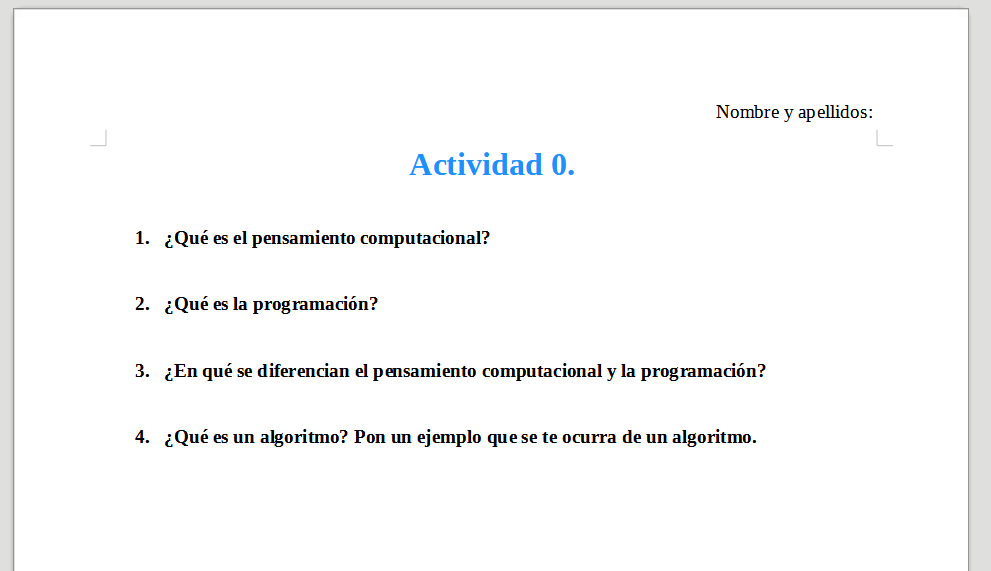
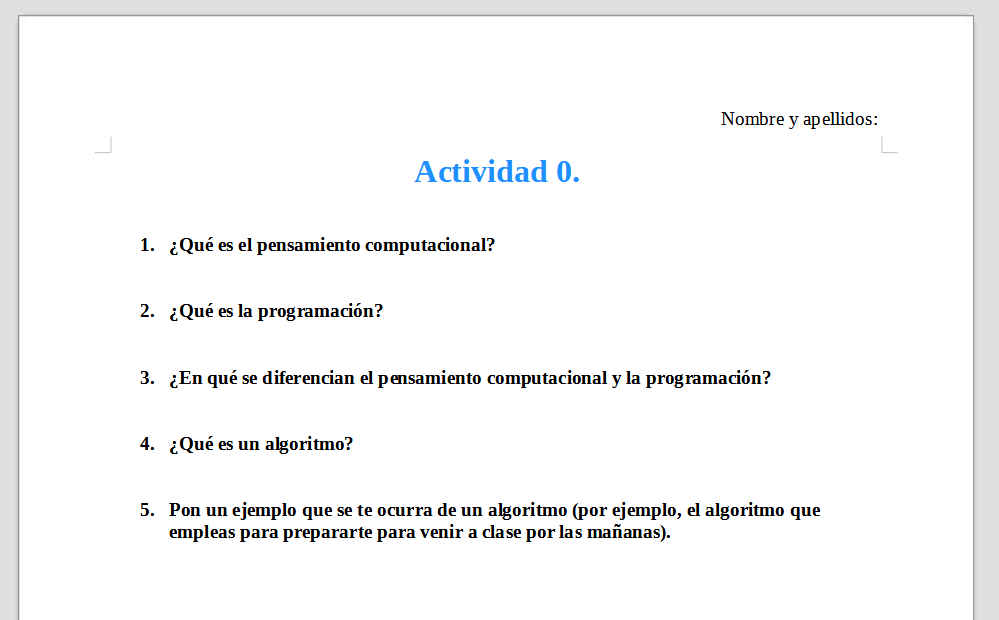
cambiadas actividades piari tema 1

diff --git a/asignaturas/piari/sa1-pensamiento-computacional/actividad-1/index.md b/asignaturas/piari/sa1-pensamiento-computacional/actividad-1/index.md
@@ -8,29 +8,32 @@ description: Actividad 1 de la SA1
 
 Un ratón de laboratorio, llamado **XC4**, ha sido entrenado por científicos. En un experimento, está situado en la entrada de un sistema de tuberías y **el objetivo** es que **llegue al queso** que se encuentra al final de la quinta tubería. Estas son las instrucciones que siempre sigue XC4:
 
-1. Bajar por el tubo hasta que aparezca un túnel nuevo.
-      
-    
-2. Cada vez que te encuentras con un túnel nuevo, debes atravesarlo.
-      
-    
-3. Vuelve a la instrucción 1.
+1. **Baja** por el tubo hasta que aparezca un túnel nuevo. 
+2. Cada vez que te encuentras con un túnel nuevo, debes **atravesarlo**.
+3. **Vuelve** a la instrucción 1.
 
 ![](act_01.png)
 
-#### **PREGUNTA**
+## Tarea 1
 
-¿En qué entrada debería ingresar el ratón para llegar al queso? Dibuja en la imagen el camino que seguirá el ratón por el laberinto hasta llegar al queso. Utiliza para ello el programa GIMP.
+1. Crea la carpeta **Actividad 1** dentro de la carpeta del **Tema 1**
+2. **Descarga la imagen** del ratón que tienes más arriba. Guárdala en la carpeta **Actividad 1**
+3. **Abre la imagen** con el programa **GIMP** (GNU Manipulation Program).
+4. ¿En qué tubo debería entrar el ratón para llegar al queso? Dibuja en la imagen el camino que seguirá el ratón por el laberinto hasta llegar al queso.
+5. **Guarda** la imagen editada en la carpeta **Actividad 1**
 
-\------------------------------------------------- ---------------------------
+> Deberás entregar en Aules **la imagen** del camino seguido por el ratón para llegar al queso.
+{: .alert-warning}
 
-##### PARA SABER MÁS
+## Tarea 2
 
-En la tarea anterior, el ratón fue entrenado por los científicos para seguir siempre un **algoritmo**, el cual, de forma simplificada, es una secuencia de instrucciones ordenadas para hacer algo. En este caso, indica cómo debe moverse el ratón en un sistema de caños interconectados.
+### Entendiendo los algoritmos
 
-Si prestamos atención al algoritmo, vemos que tiene tres **instrucciones que presentan una a continuación de otra** y se expresan por medio de un lenguaje imperativo (es decir, como órdenes).
+En la tarea anterior, el ratón fue entrenado por los científicos para seguir siempre un **algoritmo**, el cual, de forma simplificada, es una **secuencia de instrucciones ordenadas** para hacer algo. En este caso, indica cómo debe moverse el ratón en un sistema de tubos interconectados.
 
-El siguiente ejemplo es un algoritmo de más instrucciones, que puede ser utilizado para cambiar una bombilla fundida:
+Si prestamos atención al algoritmo, vemos que tiene 3 **instrucciones que presentan una a continuación de otra** y se expresan por medio de un lenguaje imperativo (es decir, como órdenes).
+
+El **siguiente ejemplo** es un algoritmo de más instrucciones, que puede ser utilizado para **cambiar una bombilla fundida**:
 
 1. Buscar una escalera y situarla en posición de alcanzar la bombilla rota.
 2. Buscar una bombilla nueva.
@@ -44,23 +47,23 @@ El siguiente ejemplo es un algoritmo de más instrucciones, que puede ser utiliz
 10. Si funciona, fin del proceso; sino,volver al paso 2.
 
   
-Como puede observarse en el algoritmo anterior, las instrucciones son claras y precisas, están ordenadas por una secuencia lógica que debe respetarse y especificado un inicio y un fin. De forma más formal, un algoritmo es una secuencia finita y ordenada de pasos para llegar a realizar una tarea determinada.
+Como puede observarse en el algoritmo anterior:
+- las instrucciones son claras y precisas
+- están ordenadas por una secuencia lógica de instrucciones que debe respetarse
+- tiene un inicio y un fin
 
-Ejemplos de algoritmos en la vida cotidiana pueden ser una receta de cocina, un manual de un artefacto que indica cómo parecerlo (por ejemplo: un mueble) o un listado de acciones a realizar en caso de que se produzca una emergencia
+> **En resumen**: Un algoritmo es una secuencia finita y ordenada de pasos para llegar a realizar una tarea determinada.
+{: .alert-info}
+
+**Ejemplos de algoritmos en la vida cotidiana** pueden ser: una receta de cocina, un manual de un artefacto que indica cómo parecerlo (por ejemplo: un mueble) o un listado de acciones a realizar en caso de que se produzca una emergencia
 en un edificio.
 
-En la escuela, los estudiantes también suelen trabajar con algoritmos:
+### Reto
 
-* en ciencia, cuando se siguen las instrucciones para realizar un experimento;
-* en matemáticas, cuando se aplica un procedimiento para resolver un ejercicio (por ejemplo, el cálculo de una media);
-* en tecnología, cuando se siguen una serie de instrucciones para ensamblar algún artefacto;
-* en arte, cuando se aplica alguna técnica de fabricación o composición (por ejemplo, la fabricación de una pieza de cerámica).
+Los científicos están buscando la manera de **entrenar de nuevo al ratón** para que, entrando por cualquier tubo, **salga siempre por el número cinco**. Haz lo siguiente:
 
-\------------------------------------------------- -----------------
+- **Escribe el algoritmo** haciendo uso del programa **LibreOffice Writer** e indica todos los pasos que debería seguir el ratón para **salir siempre por el tubo 5**.
+- **Dibuja sobre la imagen original el camino** seguido por el ratón entrando por los **tubos 1 y 3**, utilizando dos colores diferentes para cada camino. Inserta la imagen en el documento de LibreOffice Writer.
 
-##### DESAFÍO 1. **Reentrenando al ratón**
-
-Los científicos están buscando la manera de entrenar de nuevo al ratón para que, ingresando por cualquier tubo, salga siempre por el número cinco. ¿Puedes escribir un algoritmo que resuelva el problema? Haz lo siguiente:
-
-- Escribe el algoritmo haciendo uso del programa LibreOffice Writer e indica todos los pasos que debería seguir el ratón.
-- Dibuja sobre la imagen original el camino seguido por el ratón entrando por los tubos 1 y 3, utilizando dos colores diferentes para cada camino. Inserta la imagen en el documento de LibreOffice Writer.
+> Deberás entregar en Aules **el documento** de LibreOffice Writer con el algoritmo y la imagen insertada.
+{: .alert-warning}

diff --git a/asignaturas/piari/sa1-pensamiento-computacional/actividad-0/index.md b/asignaturas/piari/sa1-pensamiento-computacional/actividad-0/index.md
@@ -6,14 +6,17 @@ description: Actividad 0 del Tema 1
 
 # Actividad 0
 
-Antes de nada, en la carpeta **Documentos** del ordenador, crea una carpeta llamada **PSIR**. Dentro, crea otra carpeta llamada **Tema 1**.
+1. Antes de nada, en la carpeta **Documentos** del ordenador, crea una carpeta llamada **PSIR**.
+2. Dentro, crea otra carpeta llamada **Tema 1**.
+3. Dentro de _Tema 1_, crea la carpeta **Actividad 0**
 
-Ahora, en un documento de LibreOffice Writer, **responde con tus propias palabras**, y en base a los vídeos que hemos visto (puedes volverlos a ver si quieres), a las siguientes preguntas. También puedes apoyarte de **Google** para responder, pero _**NO puedes**_ copiar directamente las respuestas.
+Ahora, en un documento de LibreOffice Writer, **responde con tus propias palabras y de forma breve**, y en base a los vídeos que hemos visto (puedes volverlos a ver si quieres), a las siguientes preguntas. También puedes apoyarte de **Google** para responder, pero _**NO puedes**_ copiar directamente las respuestas.
 
 1. ¿Qué es el **pensamiento computacional**?
 2. ¿Qué es la **programación**?
 3. ¿En qué se **diferencian** el **pensamiento computacional** y la **programación**?
-4. ¿Qué es un **algoritmo**? Pon un ejemplo que se te ocurra de un algoritmo.
+4. ¿Qué es un **algoritmo**?
+5. Pon un **ejemplo** que se te ocurra de un algoritmo (por ejemplo, el algoritmo que empleas para prepararte para venir a clase por las mañanas).
 
 Guarda el documento con nombre **Actividad 0.odt** en la carpeta que has creado al principio.
 
@@ -23,3 +26,9 @@ Asegúrate de que tu documento **se vea más o menos así** (con las respuestas)
 {: .alert-warning}
 
 ![Resultado Act. 0](./preguntas_act0.png)
+
+## Criterios de evaluación relacionados
+
+**CE2 - 2.1.** Analizar problemas elementales significativos para el alumnado, mediante la abstracción y modelización de la realidad.
+
+**CE2 - 2.3.** Resolver de forma guiada problemas elementales utilizando los algoritmos y las estructuras de datos necesarias.

diff --git a/asignaturas/piari/sa1-pensamiento-computacional/index.md b/asignaturas/piari/sa1-pensamiento-computacional/index.md
@@ -27,6 +27,8 @@ Enlace a la [Actividad 0](./actividad-0).
 
 Enlace a la [Actividad 1](./actividad-1).
 
+<!--
+
 ### Actividad 2
 
 Enlace a la [Actividad 2](./actividad-2)
@@ -39,3 +41,5 @@ Enlace a la [Actividad 3](./actividad-3)
 ### Actividad 4
 
 Enlace a la [Actividad 4](./actividad-4)
+
+-->
